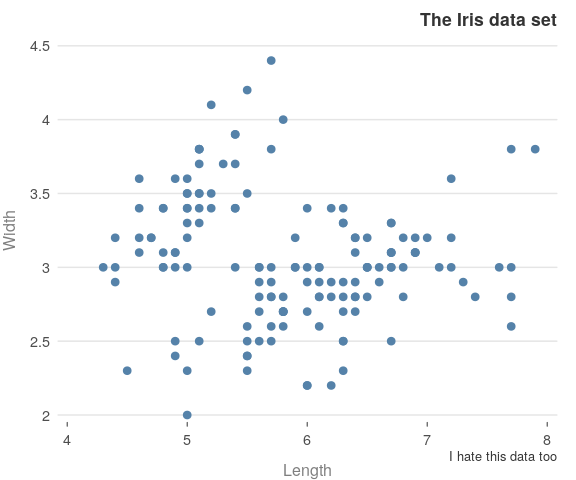
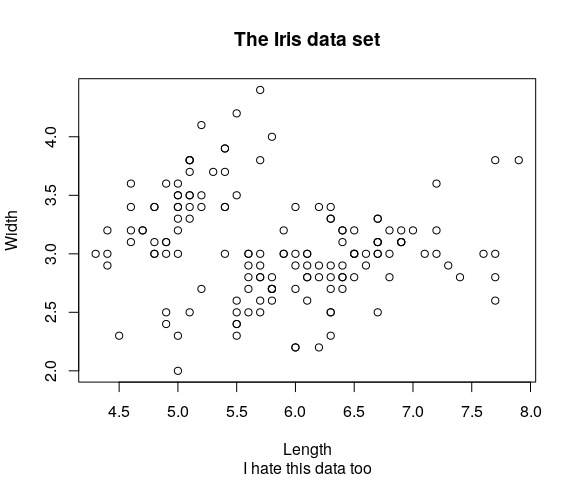
Update README

diff --git a/README.md b/README.md
@@ -5,13 +5,16 @@
 
 [![Build
 Status](https://travis-ci.org/jumpingrivers/prettyB.svg?branch=master)](https://travis-ci.org/jumpingrivers/prettyB)
+[![CRAN](http://www.r-pkg.org/badges/version/prettyB)](https://cran.r-project.org/package=prettyB)
+[![Lifecycle:
+maturing](https://img.shields.io/badge/lifecycle-maturing-blue.svg)](https://www.tidyverse.org/lifecycle/#maturing)
 [![Coverage
 status](https://codecov.io/gh/jumpingrivers/prettyB/branch/master/graph/badge.svg)](https://codecov.io/github/jumpingrivers/prettyB?branch=master)
+[![Downloads](http://cranlogs.r-pkg.org/badges/prettyB?color=brightgreen)](https://cran.r-project.org/package=prettyB)
 
 Anyone who uses R Base graphics, have a 100 and 1 tweaks that they use
 to make the figures more presentable. This package aims to capture the
-tweaks in one place. By *masking* standard plotting functions, we can
-automatically make base graphics a bit more pretty.
+tweaks in one place.
 
 ## Installation
 
@@ -41,11 +44,12 @@ difference is that the defaults have been changed. For example, compare
 
 ``` r
 op = par(mfrow = c(1, 2))
-graphics::plot.default(iris$Sepal.Length, iris$Sepal.Width)
 plot(iris$Sepal.Length, iris$Sepal.Width)
+plot_p(iris$Sepal.Length, iris$Sepal.Width)
 ```
 
 <img src="man/figures/README-plot-minimal-1.png" style="display: block; margin: auto;" />
+
 When you first call a **prettyB**, it changes the underlying `par()` and
 `palette()`. You can reset this via
 
@@ -74,7 +78,7 @@ The package also prettifies other functions
     
     ``` r
     z = rt(100, 4)
-    graphics::hist.default(z, main = "The t-distribution")
+    hist(z, main = "The t-distribution")
     hist(z, main = "The t-distribution")
     ```
     
@@ -83,7 +87,7 @@ The package also prettifies other functions
   - barplots
     
     ``` r
-    graphics::barplot.default(VADeaths, main = "Death Rates in Virginia")
+    barplot(VADeaths, main = "Death Rates in Virginia")
     barplot(VADeaths, main = "Death Rates in Virginia")
     ```
     
@@ -103,7 +107,7 @@ plotting packages. Instead, it has a few simple aims
 
 Since the generated plots by **prettyB** use standard base graphics,
 with no new arguments, this makes plots future proof. As a fall-back,
-just don’t load the package.
+just remove the `_p`.
 
 I picked up the general style a few years ago, but the book
 [Fundamentals of Data Visualization](https://amzn.to/2Hct447) has made
